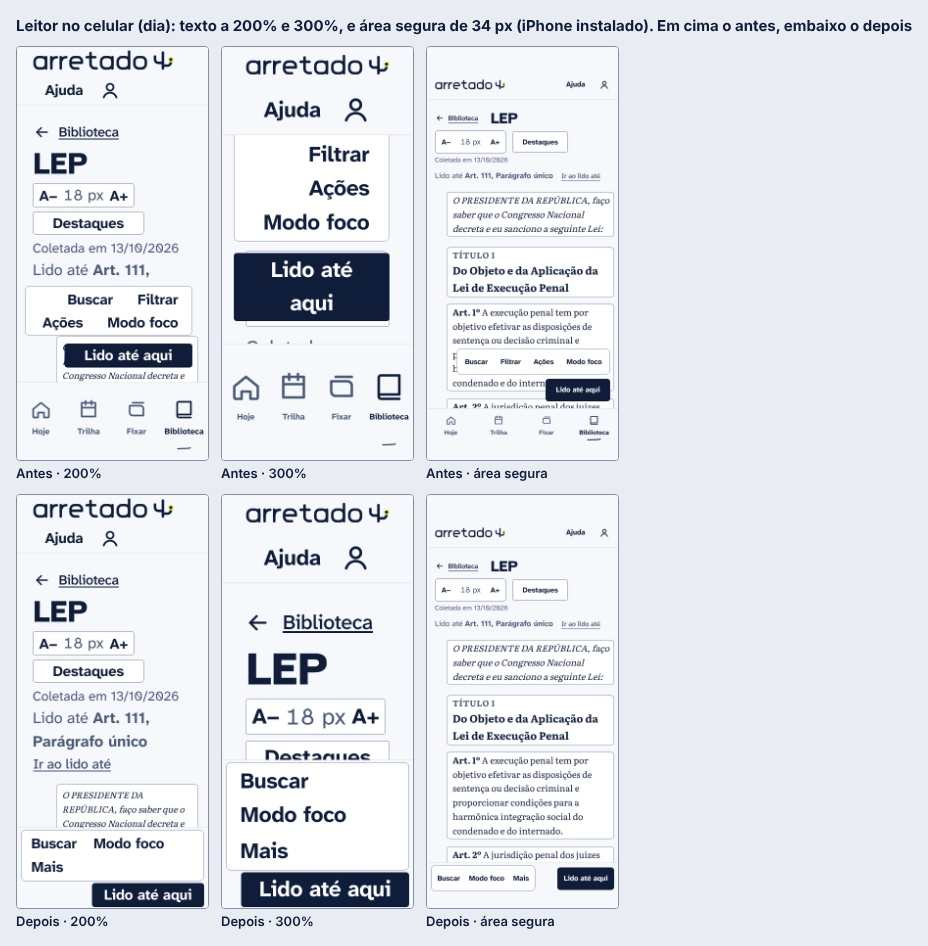
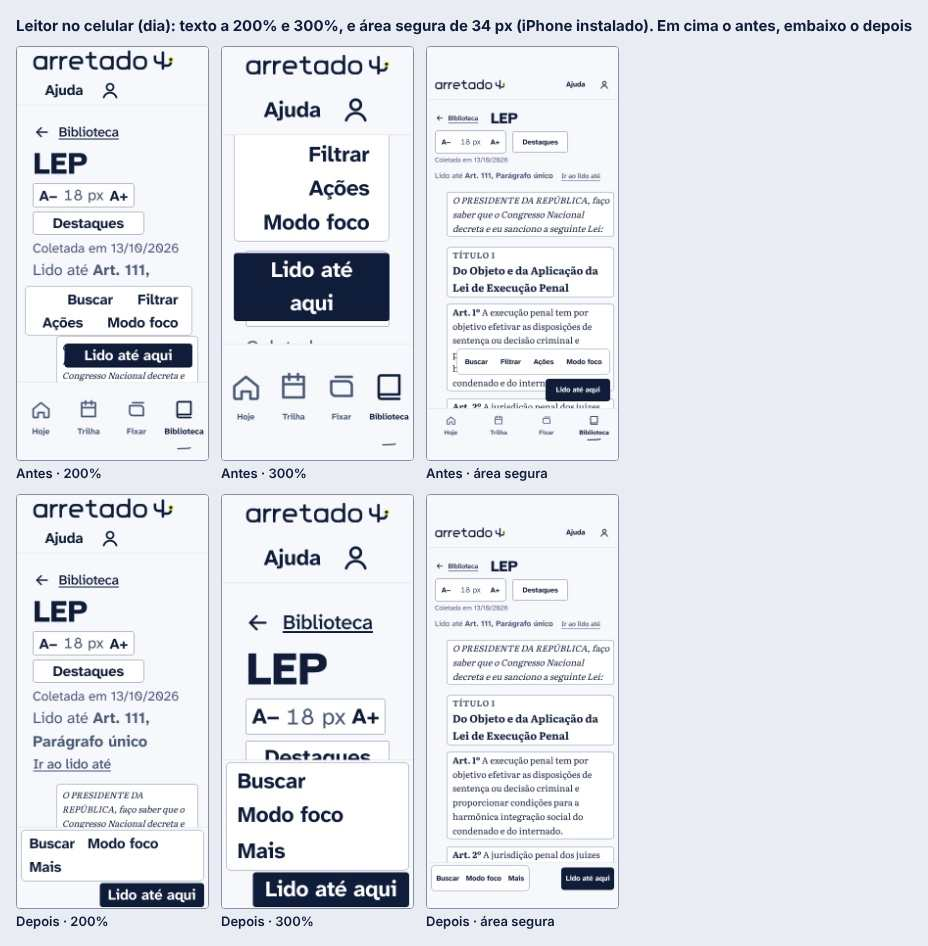
fix(leitor): a barra de uma linha ganha folga a 360 px (o CI desenha o texto mais largo) e o spec mede com o mesmo texto
Claude-Session: https://claude.ai/code/session_01BogFZ3c18n4XG4yNEVVxrJ

diff --git a/e2e/leitor-celular.spec.ts b/e2e/leitor-celular.spec.ts
@@ -6,6 +6,10 @@ import { expect, importarEPublicar, rolagemAssentada, semViolacoes, test } from 
 // Filtrar e Ações a dois toques, no "Mais" (B). Aqui se mede onde cada coisa fica, no estilo do
 // `trilho-do-leitor.spec.ts`; o E2E do Leitor só pergunta se os botões estão à vista.
 
+// O CI desenha o texto com hinting inteiro, uns 3% mais largo que o do computador de quem escreve o
+// teste: a barra de 360 px passava aqui e quebrava lá. Com a flag o E2E mede o mesmo texto nos dois.
+test.use({ launchOptions: { args: ['--font-render-hinting=full'] } });
+
 const TELAS = [
   { largura: 390, altura: 844 },
   { largura: 375, altura: 667 },
@@ -91,7 +95,10 @@ for (const { largura, altura } of TELAS) {
     expect(m.barra.direita).toBeLessThanOrEqual(m.largura);
     expect(m.botoes.map((b) => b.nome)).toEqual(['Buscar', 'Modo foco', 'Mais', 'Lido até aqui']);
     for (const b of m.botoes) {
-      expect(b.base - b.topo, `${b.nome}: alvo de 44 px`).toBeGreaterThanOrEqual(43.9);
+      expect(b.base - b.topo, `${b.nome}: alvo de 44 px de altura`).toBeGreaterThanOrEqual(43.9);
+      expect(b.direita - b.esquerda, `${b.nome}: alvo de 44 px de largura`).toBeGreaterThanOrEqual(
+        43.9,
+      );
       expect(b.fonte, `${b.nome}: texto de 13 px ou mais`).toBeGreaterThanOrEqual(13);
       expect(b.esquerda, `${b.nome} dentro da tela`).toBeGreaterThanOrEqual(0);
       expect(b.direita, `${b.nome} dentro da tela`).toBeLessThanOrEqual(m.largura);

diff --git a/src/apresentacao/estilos.css b/src/apresentacao/estilos.css
@@ -1949,13 +1949,16 @@ a.item-norma strong {
     justify-content: flex-start;
   }
 
+  /* Os recuos são os menores que deixam a barra numa linha a 360 px com folga: o CI desenha o texto uns
+     3% mais largo (hinting inteiro) e, com 7 px de sobra, ela quebrava. O alvo continua com 44 px. */
   .leitor:not(.em-foco) .acoes-leitor .dock-do-leitor button {
-    padding-inline: 0.5rem;
+    min-width: var(--alvo);
+    padding-inline: 0.375rem;
   }
 
   .leitor:not(.em-foco) .acoes-leitor > .principal {
     margin-left: auto;
-    padding-inline: 0.75rem;
+    padding-inline: 0.5rem;
   }
 
   /* As ações do trecho marcado e do grifo ocupam a barra inteira. */

diff --git a/docs/solucao-de-problemas.md b/docs/solucao-de-problemas.md
@@ -1886,6 +1886,7 @@ Relatório completo: [`revisoes/f2-etapas-8-9-11.md`](revisoes/f2-etapas-8-9-11.
 
 - **E2E no celular não acha a aba "Biblioteca" dentro do Leitor, ou perde a posição ao sair.** Causa: abaixo de 700 px o Leitor põe `data-leitor` na raiz e as abas das áreas somem (a barra do leitor fica no lugar delas), então o clique espera um elemento escondido até estourar o tempo; o link "Voltar à Biblioteca" do alto sai, mas rola a página ao começo e apaga a posição que o teste queria conferir. Solução: no celular sair pelo "voltar" do aparelho (`page.goBack()`), no `sairParaABiblioteca` de `e2e/leitor.spec.ts`; nos outros aparelhos, a aba. Prevenção: `e2e/leitor-celular.spec.ts` prova que as abas somem e como se sai.
 - **A barra do Leitor cobre o fim da norma, ou deixa a janela de leitura pequena.** Causa: a barra é fixa no fundo e a rolagem só reserva o que o CSS sabe (uma linha); em tela estreita (320 px) ou com texto grande ela quebra em linhas (a 300% de fonte o dock vira uma coluna; com `flex-wrap: nowrap` o "Buscar" saía cortado, por isso o dock quebra em vez de espremer). Solução: `Leitor.tsx` mede a barra (`ResizeObserver`) e escreve `--barra-do-leitor`, que é também `--abas-altura`; sem `ResizeObserver` (jsdom) vale a altura de uma linha. Prevenção: `e2e/leitor-celular.spec.ts` mede a 390 × 844, 375 × 667 e 360 × 740 (cobertura de baixo até 67 px, janela de leitura acima de 81%, última linha acima da barra, alvos de 44 px, sem rolagem de lado).
+- **O E2E da barra do Leitor passa no meu computador e falha no CI a 360 px (a barra cobre 111 px, não 63).** Causa: o Chromium do CI desenha o texto com hinting inteiro (o fontconfig do runner), uns 3% mais largo que o de um computador sem hinting; a barra tinha 7 px de folga a 360 px e quebrava em duas linhas. Reproduz local com `--font-render-hinting=full`. Solução: recuos menores (6 px nos botões do dock, 8 px no "Lido até aqui"; folga de 20 px a 360 px), `min-width: var(--alvo)` nos botões do dock e, no spec, `test.use({ launchOptions: { args: ['--font-render-hinting=full'] } })`, para medir aqui o mesmo texto do CI. Prevenção: E2E que mede largura de texto roda com essa flag, e barra de uma linha precisa de folga de pelo menos 5%.
 - **A barra de baixo do Leitor some atrás do teclado quando se busca.** Não é defeito: "Buscar" abre um `Dialogo` modal, e com o teclado aberto a barra fixa fica por trás dele; `.shell[data-teclado]` zera `--abas-altura` para a rolagem não reservar espaço à toa.
 - **`react-hooks/rules-of-hooks` acusa um hook com nome em português (`usarCarga`).** Causa: a regra só reconhece `use…`. Solução: nomear `useCarga`, como `useDados` e `useLarguraMaxima`. Prevenção: a própria regra.
 - **"Qual concurso você estuda?" ou "Para começar" mostram "Não foi possível abrir…" com a rede boa.** Causa: o `pacote-de-partida.json` não passa no esquema (`FonteIndisponivel('formato_invalido')`), por exemplo `porcentagem` acima de 100, id fora do padrão ou mais de 8 normas numa carreira; a tela mostra só a falha. Solução: `npm run acervo:verificar` diz o motivo ("esquema do pacote: …"). Num teste, o pacote falso precisa respeitar o esquema (a `porcentagem` se calcula sobre os `editaisComTexto` da própria carreira). Prevenção: `acervo:verificar` na CI e `partida.test.ts`.
